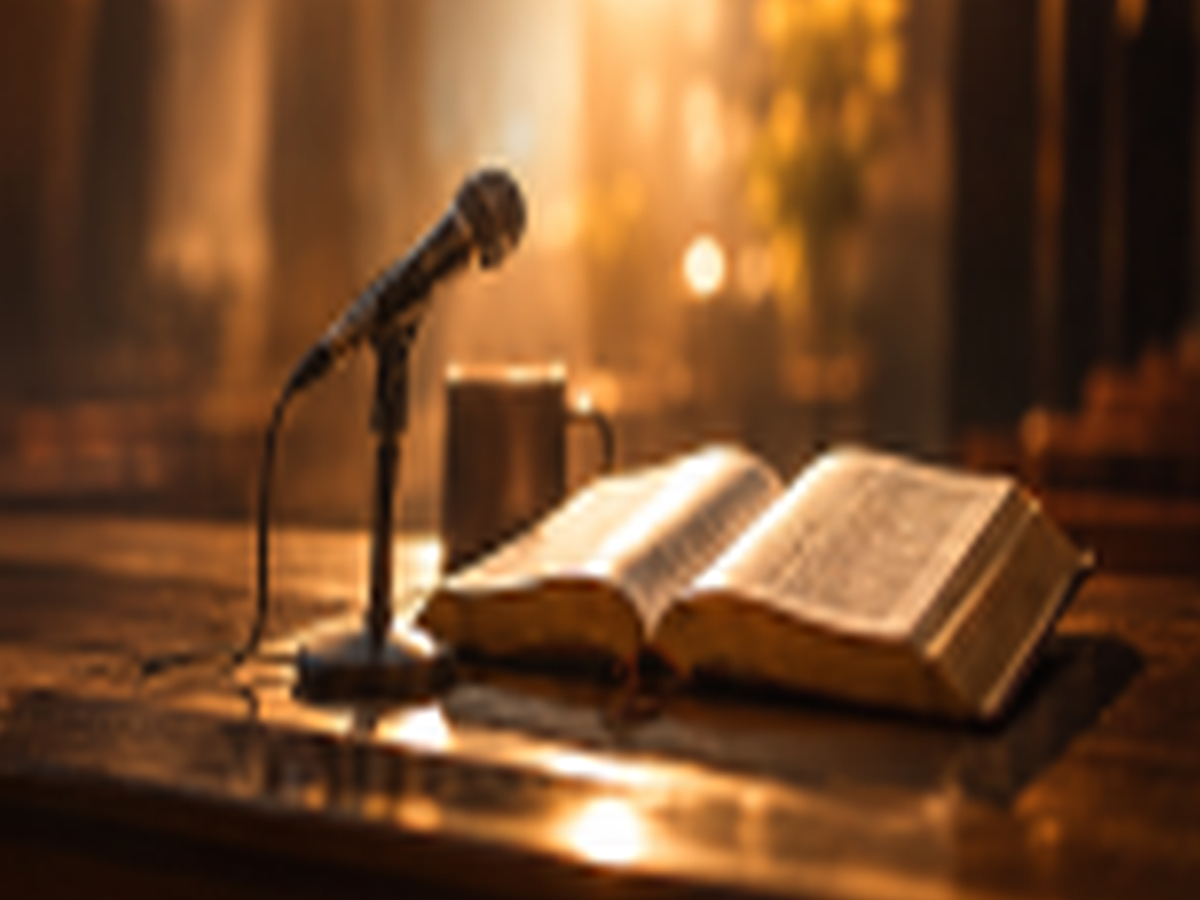
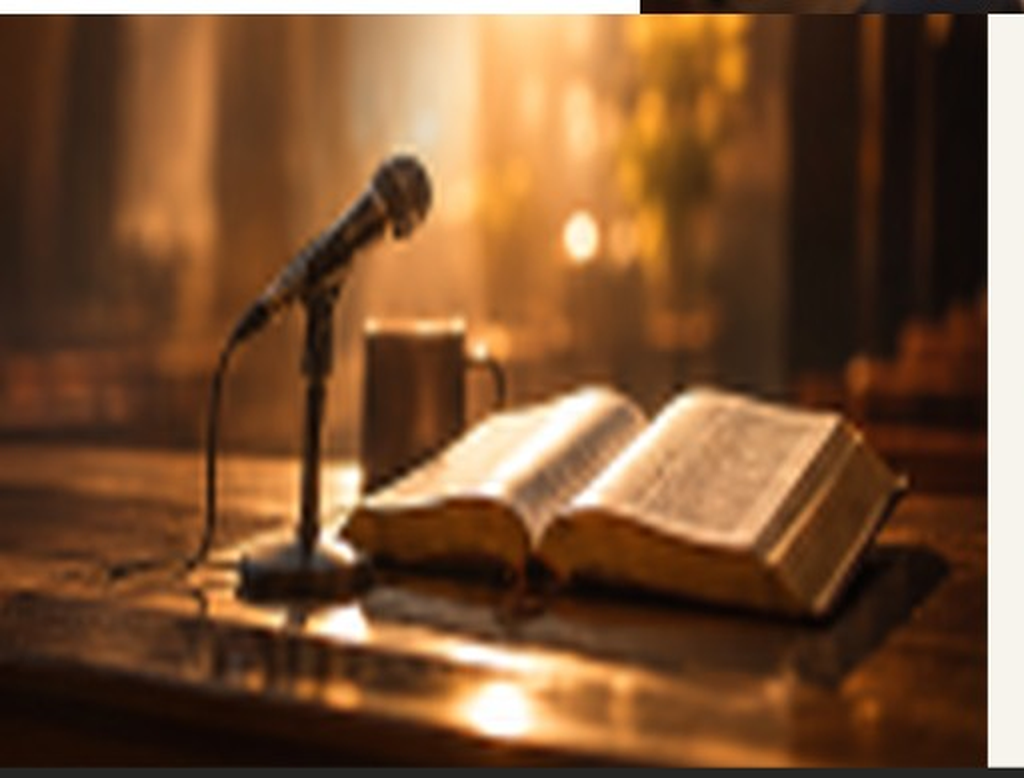
Match SNL Figma photo and Neue Haas Grotesk Display Pro.

diff --git a/styles/site.less b/styles/site.less
@@ -11,7 +11,7 @@
 @white: #ffffff;
 @font-serif: "Instrument Serif", "Palatino Linotype", Palatino, serif;
 @font-sans: "Manrope", "Gill Sans", "Trebuchet MS", sans-serif;
-@font-display: "Helvetica Neue", Helvetica, Arial, "Manrope", sans-serif;
+@font-display: "Neue Haas Grotesk Display Pro", "neue-haas-grotesk-display", "Helvetica Neue", Helvetica, Arial, sans-serif;
 @header-offset: 824px;
 @pad: 50px;
 @wide: 100px;
@@ -874,9 +874,9 @@ a.pom-join-btn {
 .pom-page-home .pom-triptych .is-hands { background-image: ~'url("/assets/home-purpose.png")'; }
 .pom-page-home .pom-split.is-cream .is-bible,
 .pom-split.is-cream.is-snl .pom-media.is-bible {
-  background-image: ~'url("/assets/home-snl.png")' !important;
+  background-image: ~'url("/assets/home-snl-figma.png")' !important;
   background-size: cover !important;
-  background-position: center 40% !important;
+  background-position: center center !important;
   background-color: #1a120e;
   min-height: 560px;
   align-self: stretch;
